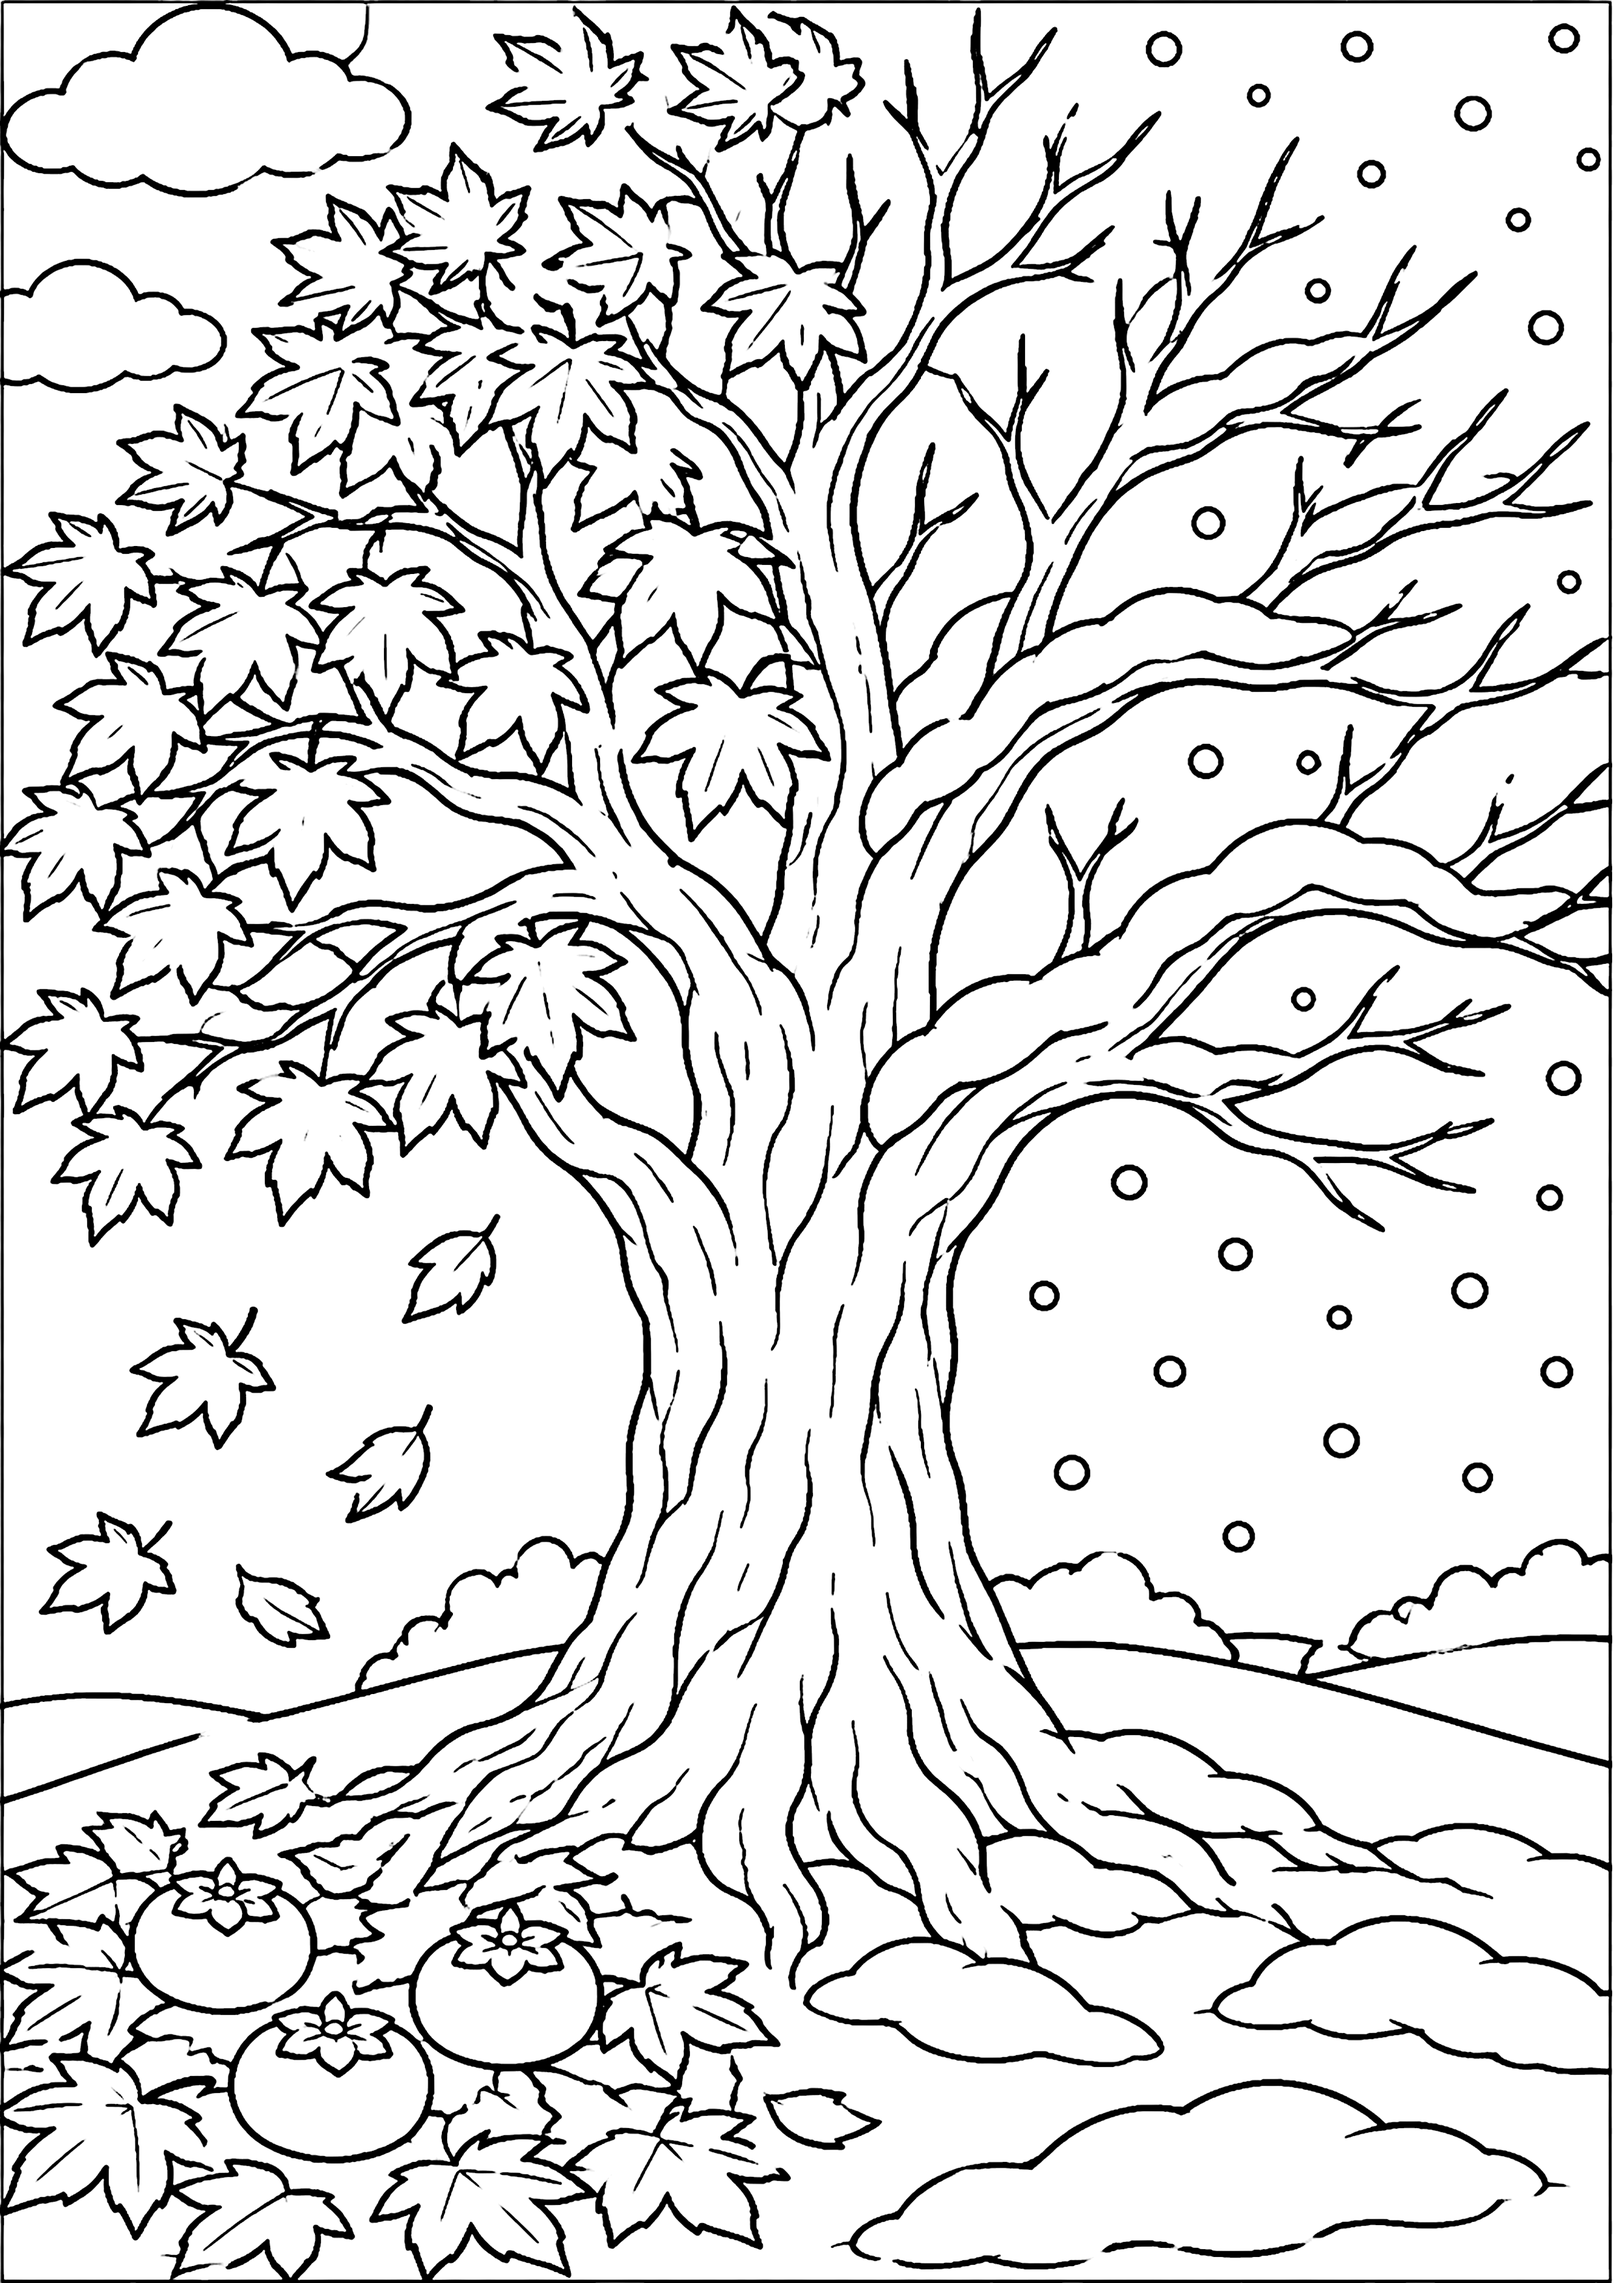
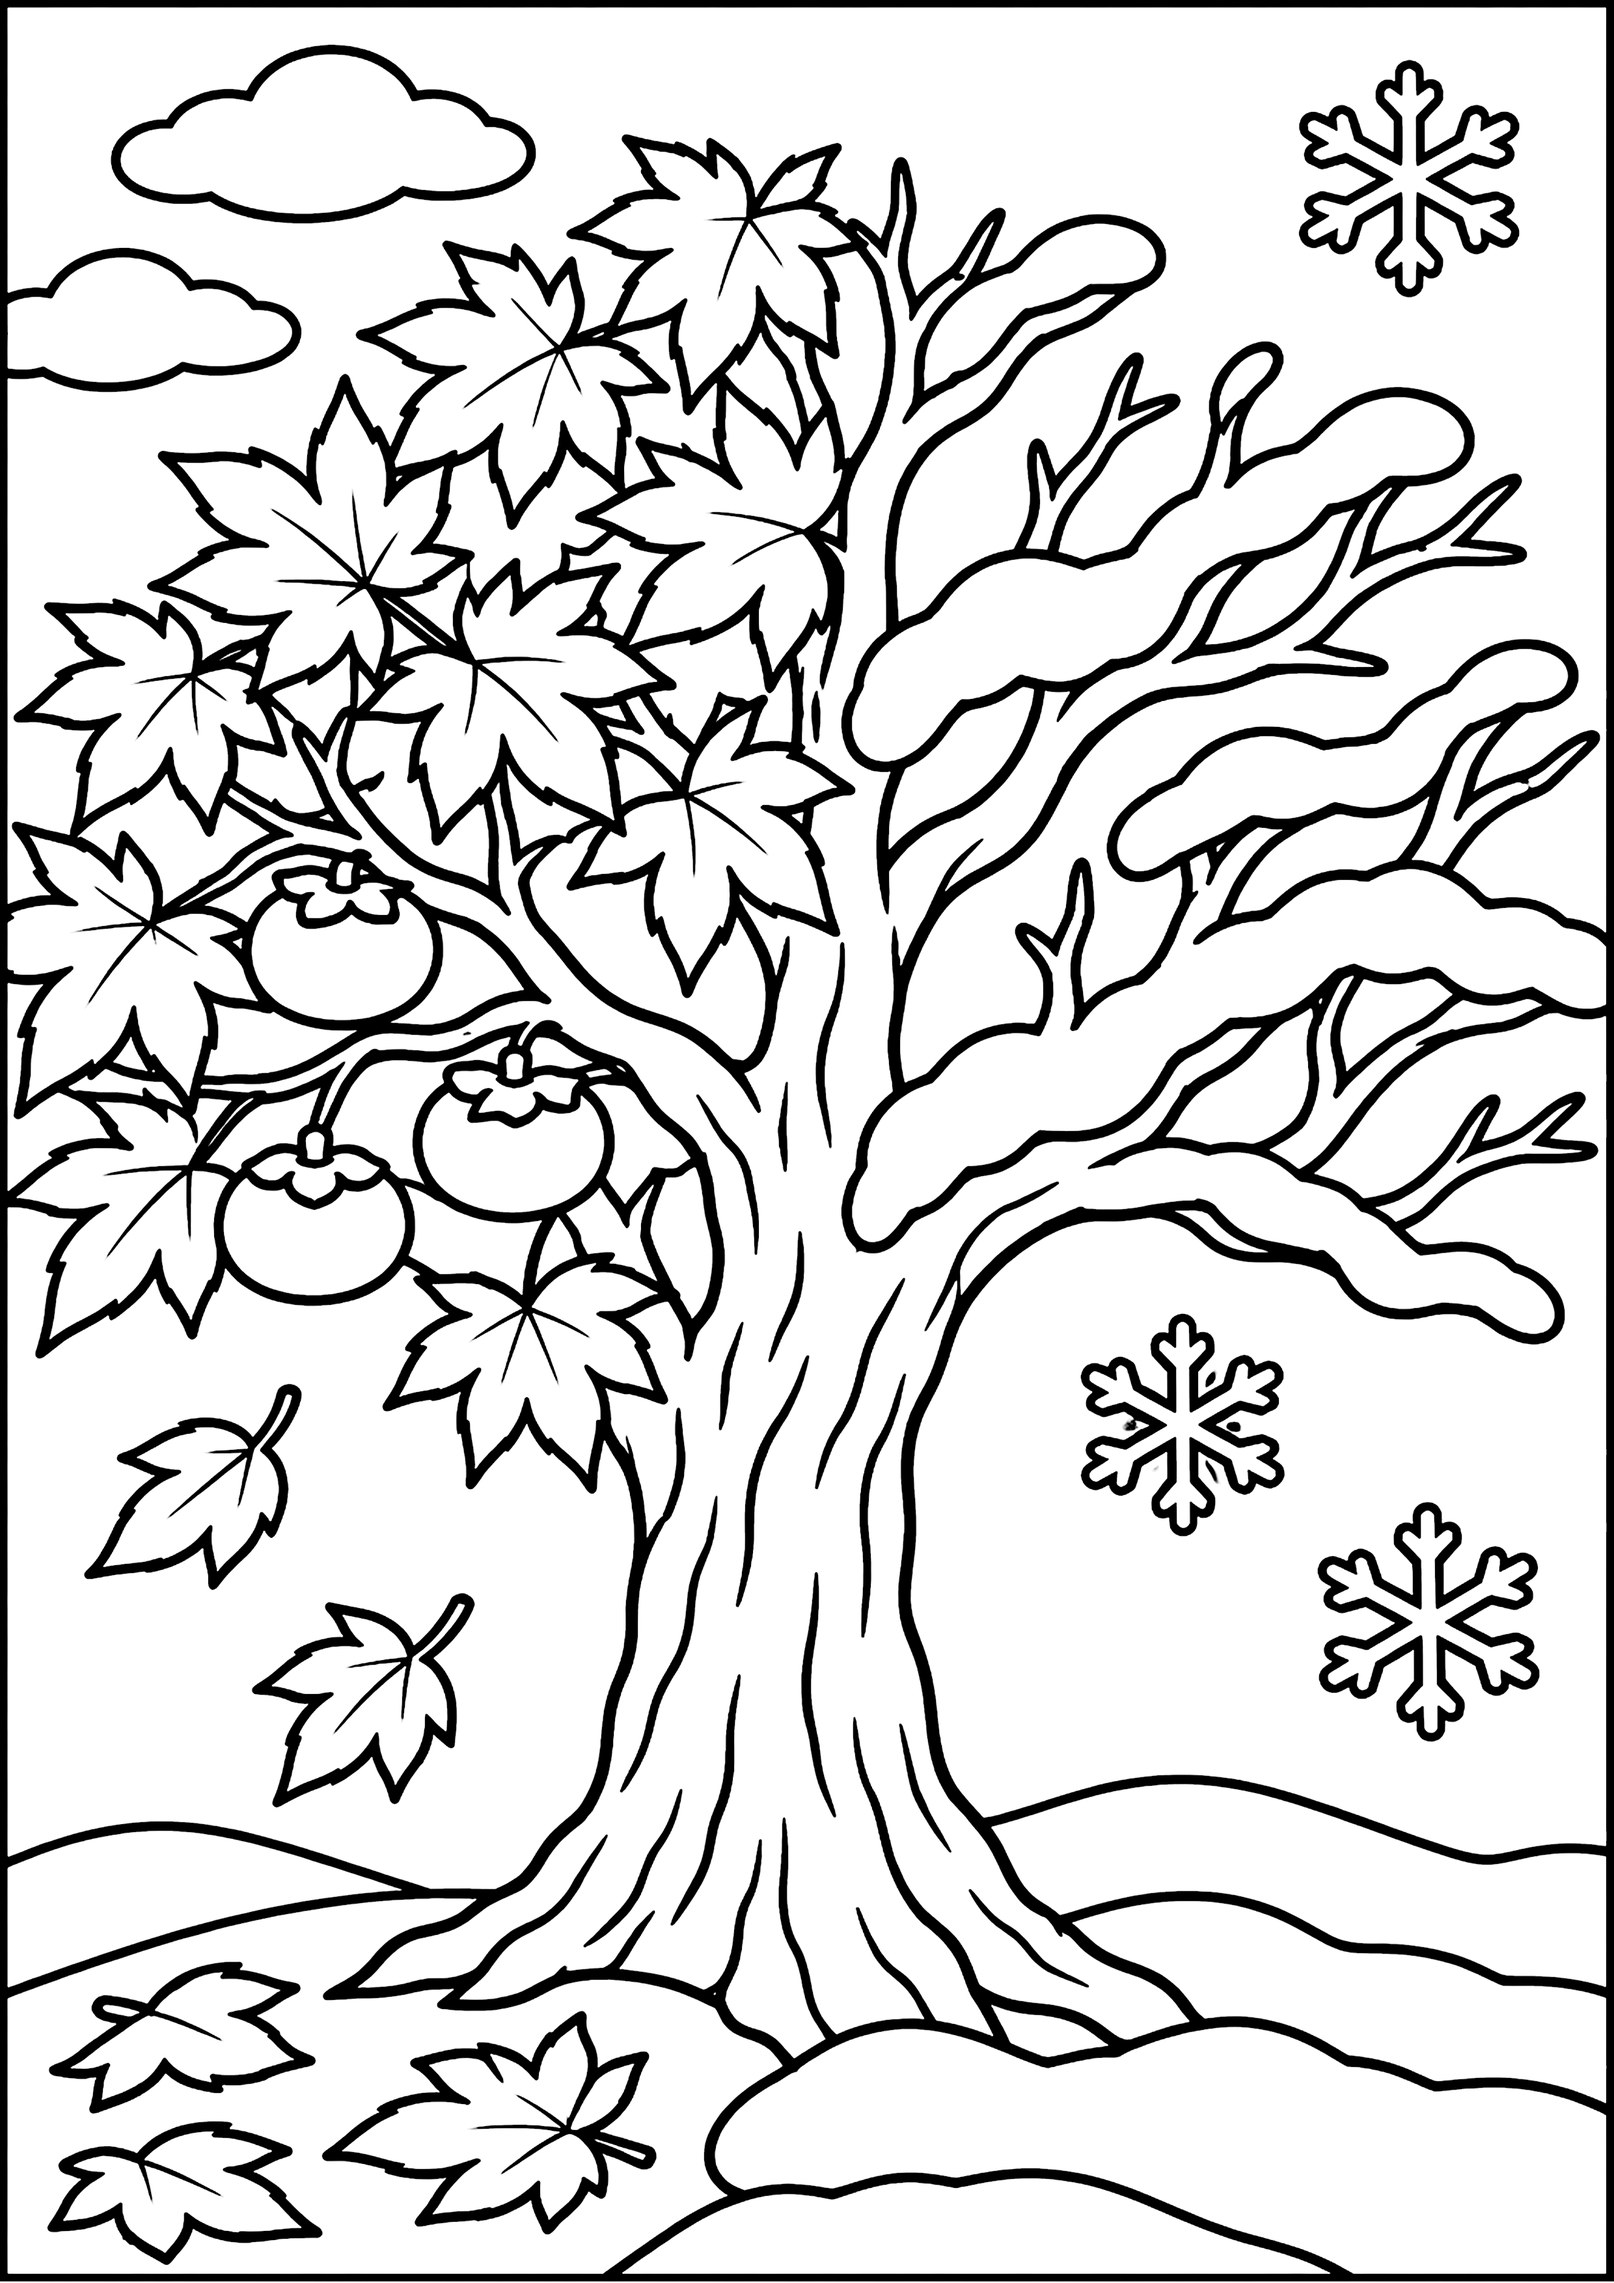
飛び出す絵本の秋の古都を作り直して追加、秋から冬へ移る一本の木を作り直しに差し替え（色見本つき）
Claude-Session: https://claude.ai/code/session_01EPRbSUbq6YG8US4CJV8gd8

Changed region(s): [[0.0, 0.0, 1.0, 1.0], [0.6831, 0.0, 0.7452, 0.0311]]

diff --git a/data.js b/data.js
@@ -1505,6 +1505,7 @@ window.NURIE_LIST = [
   { season: "冬", genre: "乗り物", title: "雪山をのぼる登山鉄道", diff: "上級", file: "tozan_tetsudo_jo.png", sample: "tozan_tetsudo_jo_sample.jpg", added: "2026-11", date: "2026-11-14", desc: "雪山の石橋とトンネルを越えて、山の駅へのぼる登山電車", v: "1794663384450" },
   { season: "秋", genre: "乗り物", title: "紅葉のトンネルを抜けるバス", diff: "中級", file: "momiji_tunnel_bus_chu.png", sample: "momiji_tunnel_bus_chu_sample.jpg", added: "2026-11", date: "2026-11-14", desc: "紅葉のトンネルの山道を走る、昔なつかしいボンネットバス", v: "1794663385450" },
   { season: "秋", genre: "その他", title: "ティーカップの紅葉の庭", diff: "中級", file: "teacup_momiji_niwa_chu.png", sample: "teacup_momiji_niwa_chu_sample.jpg", added: "2026-11", date: "2026-11-14", desc: "ティーカップの中に広がる、太鼓橋と灯籠のある紅葉の庭", v: "1794663725467" },
-  { season: "冬", genre: "風景", title: "秋から冬へ移る一本の木", diff: "初級", file: "aki_fuyu_ippon_ki_sho.png", sample: "aki_fuyu_ippon_ki_sho_sample.jpg", added: "2026-11", date: "2026-11-14", desc: "左は紅葉、右は雪。秋から冬へ移る一本の大きな木", v: "1794663387450" },
+  { season: "冬", genre: "風景", title: "秋から冬へ移る一本の木", diff: "初級", file: "aki_fuyu_ippon_ki_sho.png", sample: "aki_fuyu_ippon_ki_sho_sample.jpg", added: "2026-11", date: "2026-11-14", desc: "左は紅葉、右は雪。秋から冬へ移る一本の大きな木", v: "1794664319989" },
+  { season: "秋", genre: "風景", title: "飛び出す絵本の秋の古都", diff: "中級", file: "ehon_koto_aki_chu.png", sample: "ehon_koto_aki_chu_sample.jpg", added: "2026-11", date: "2026-11-14", desc: "開いた絵本から飛び出す、五重塔と門、紅葉の木", v: "1794664319990" },
   { season: "秋", genre: "人物", title: "落ち葉の着物の女性", diff: "中級", file: "ochiba_kimono_josei_chu.png", sample: "ochiba_kimono_josei_chu_sample.jpg", added: "2026-11", date: "2026-11-14", desc: "紅葉といちょうの柄の着物で、番傘をさして歩く女性", v: "1794663388450" },
 ];
